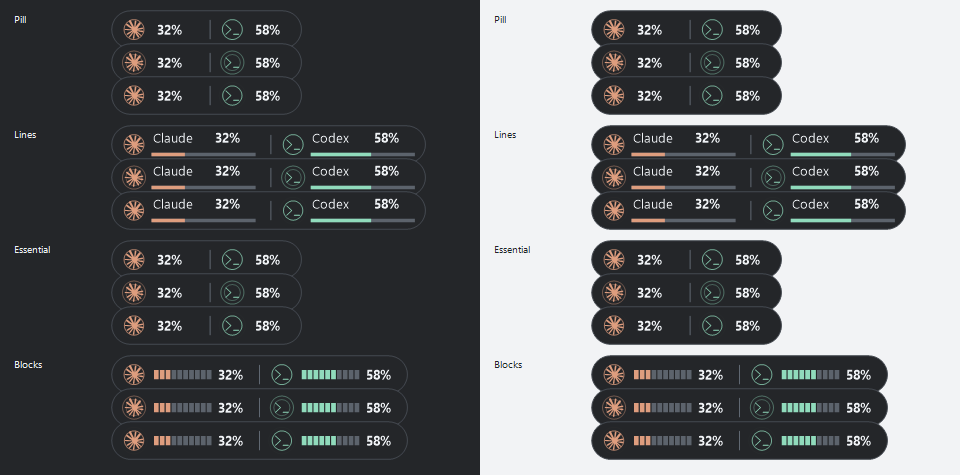
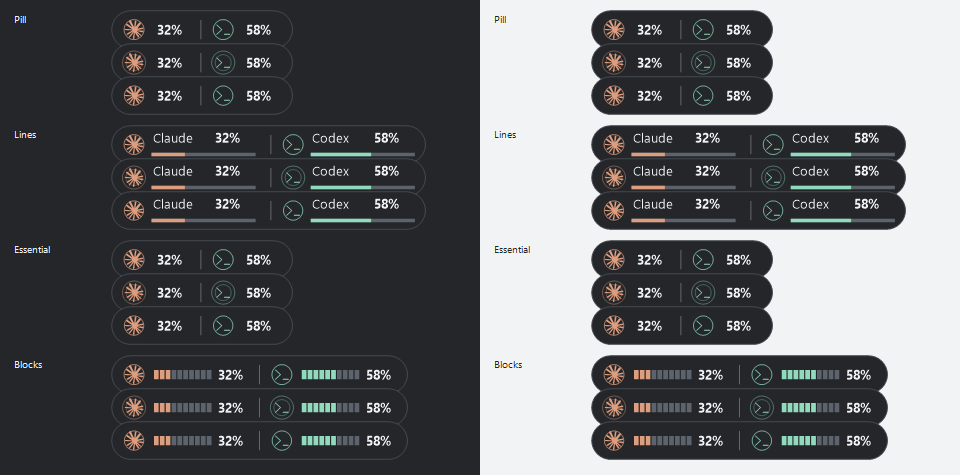
Tighten Claude percentage gap while preserving Codex divider spacing

diff --git a/src/Taskcode.Probe/Indicator.cs b/src/Taskcode.Probe/Indicator.cs
@@ -31,10 +31,11 @@ namespace Taskcode.Probe
         private const float IndicatorScale = 1.17f;
         private const int PillLeftPadding = 8;
         private static bool Compact(IndicatorStyle style) { return style == IndicatorStyle.Essential || style == IndicatorStyle.Pill; }
+        private static int ProviderGapReduction(IndicatorStyle style, bool weekly) { return Compact(style) ? (weekly ? 4 : 8) : 0; }
         private static int ContentWidth(IndicatorStyle style, bool showWeekly)
         {
             int width = showWeekly ? (Compact(style) ? 184 : 268) : Compact(style) ? 156 : style == IndicatorStyle.Blocks ? 246 : 262;
-            return width + PillLeftPadding;
+            return width + PillLeftPadding - ProviderGapReduction(style, showWeekly);
         }
         internal static int LogicalWidth(IndicatorStyle style, bool showWeekly = false) { return (int)Math.Ceiling(ContentWidth(style, showWeekly) * IndicatorScale); }
         internal static string AccessibleText(bool weekly)
@@ -44,7 +45,7 @@ namespace Taskcode.Probe
         }
         internal static int LogicalHeight { get { return (int)Math.Ceiling(34 * IndicatorScale); } }
         private static int SecondProviderX(IndicatorStyle style, bool weekly)
-        { return (weekly ? (Compact(style) ? 132 : 172) : Compact(style) ? 120 : style == IndicatorStyle.Blocks ? 162 : 172); }
+        { return (weekly ? (Compact(style) ? 132 : 172) : Compact(style) ? 120 : style == IndicatorStyle.Blocks ? 162 : 172) - ProviderGapReduction(style, weekly); }
         internal static Rectangle ProviderBounds(int provider, Size size, IndicatorStyle style, bool weekly)
         {
             if (provider < 0 || provider > 1 || size.Width <= 0 || size.Height <= 0) return Rectangle.Empty;
